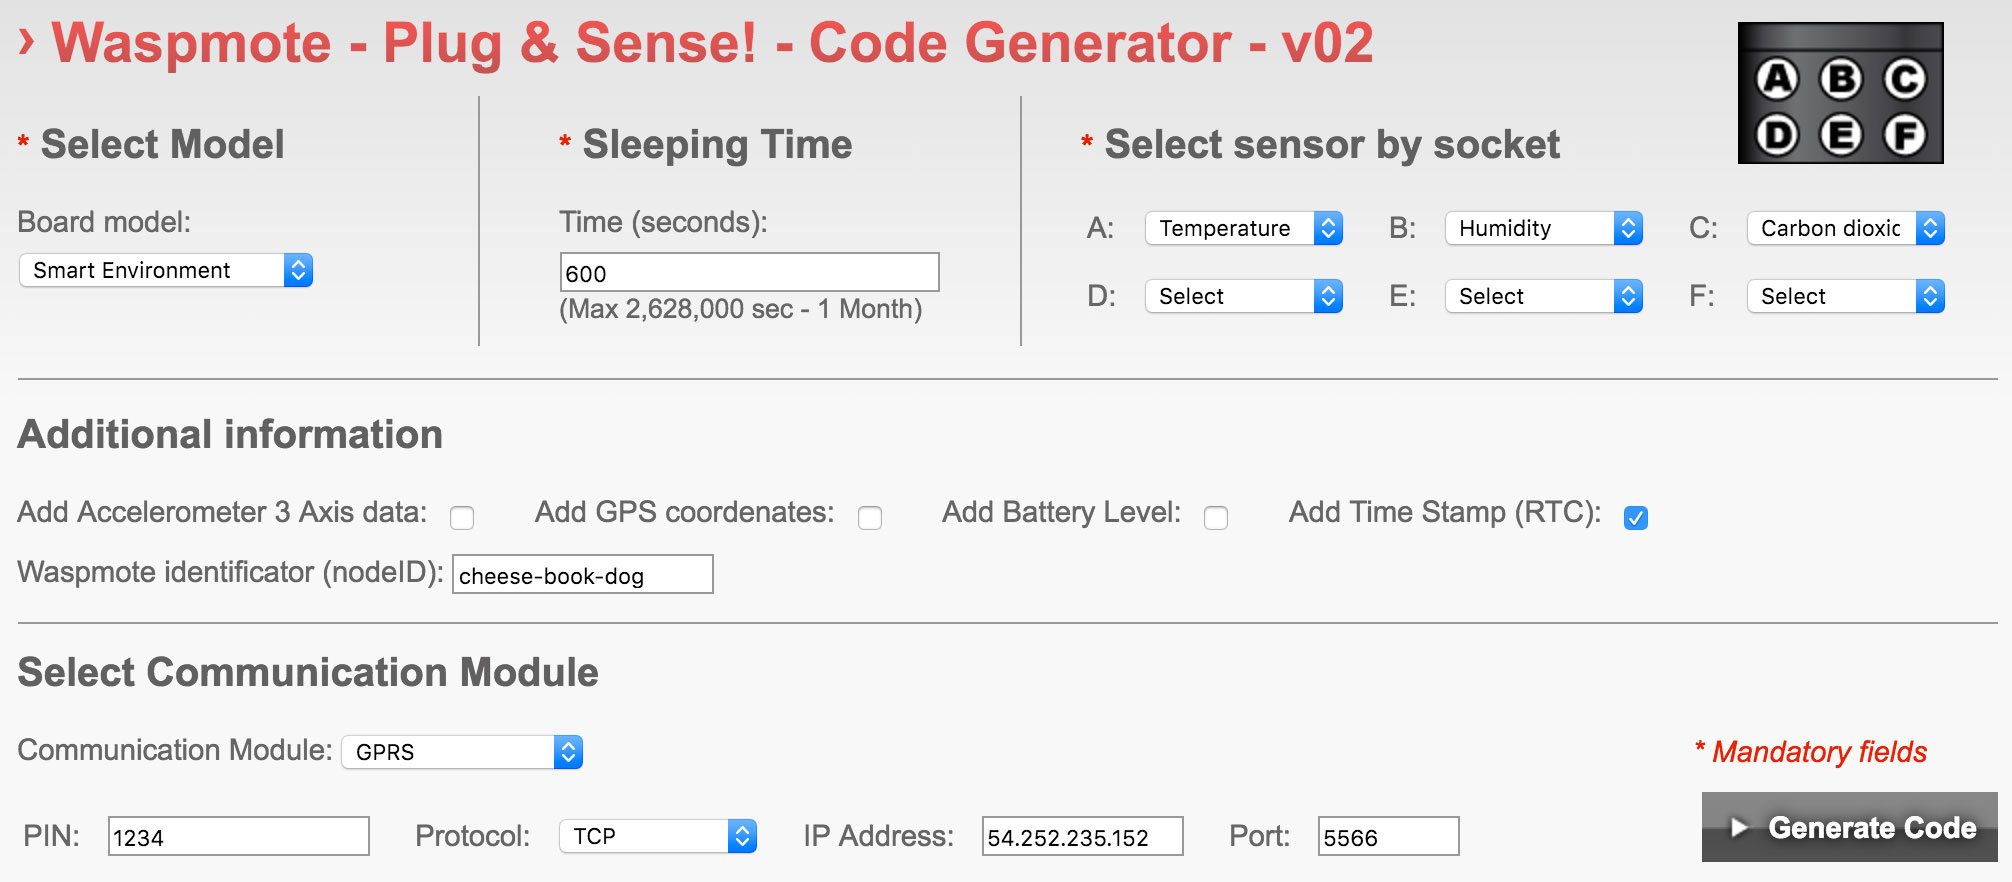
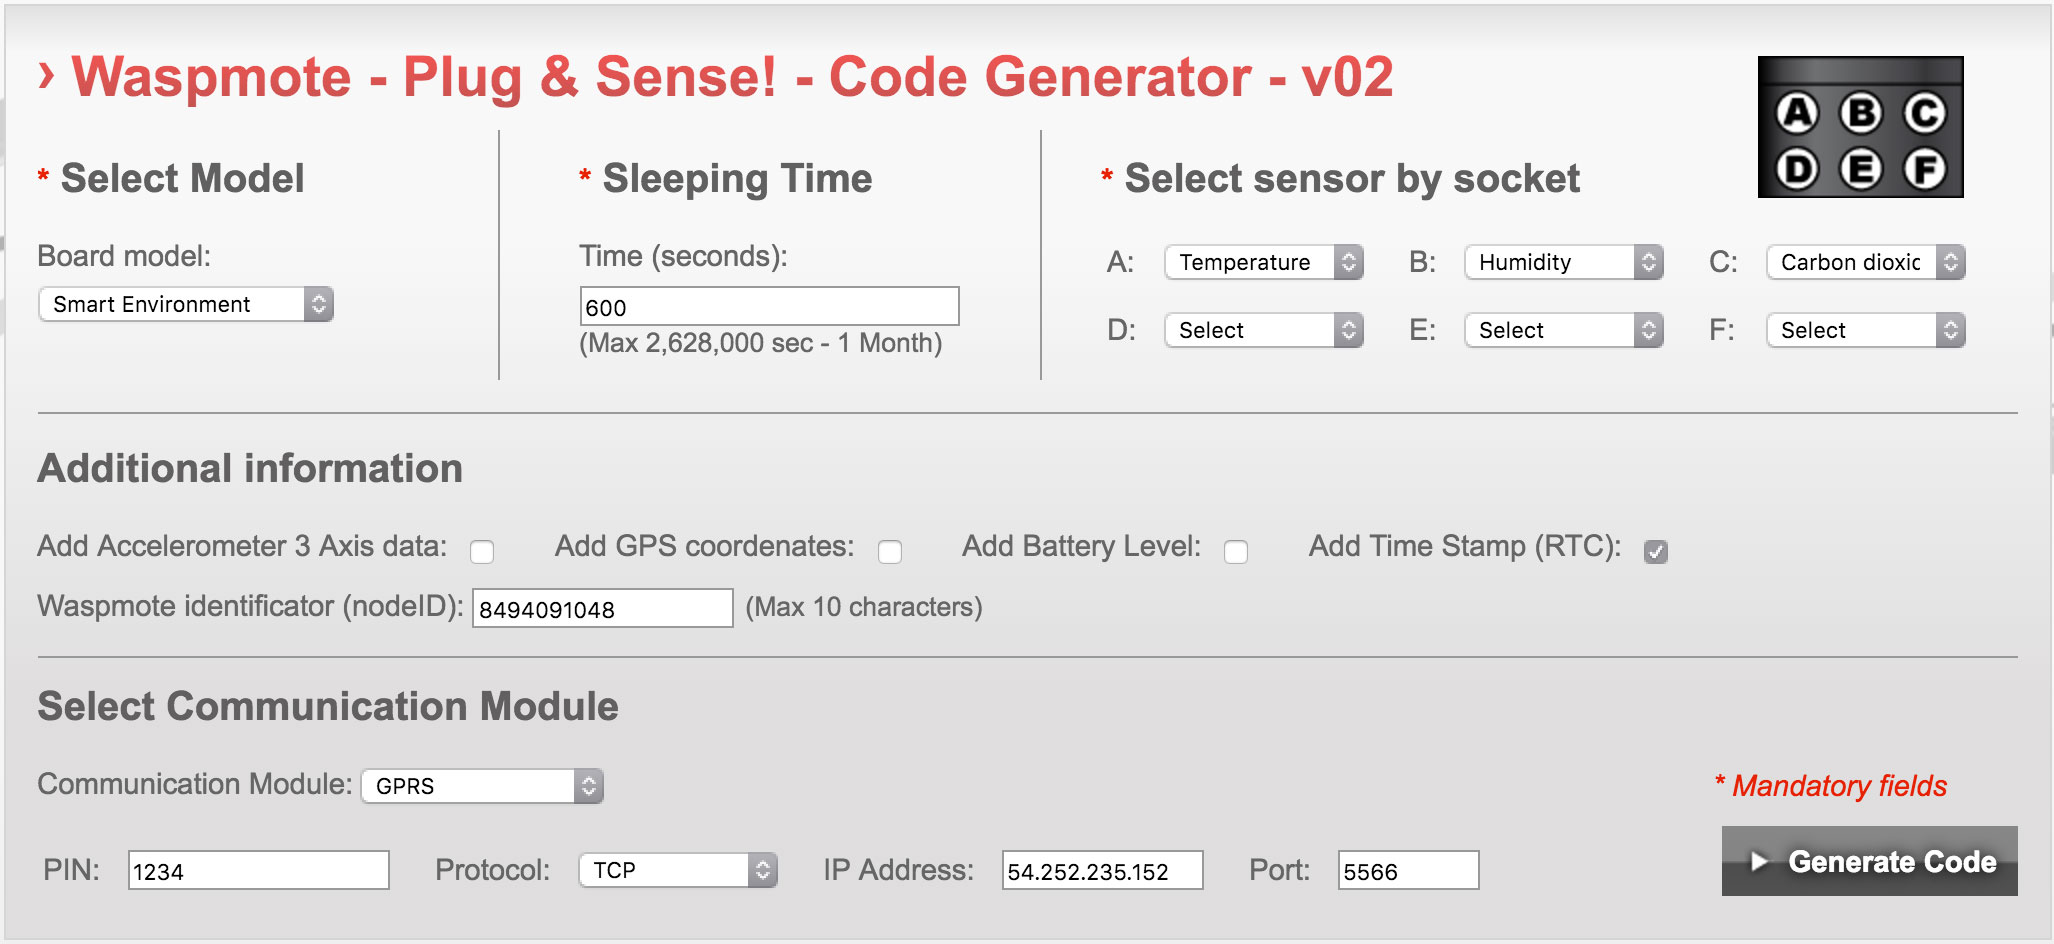
update waspmote screenshots and connection info

diff --git a/source/topics/device_configuration/libelium_waspmote/index.rst b/source/topics/device_configuration/libelium_waspmote/index.rst
@@ -133,10 +133,16 @@ Use the online `Libelium code generator <http://www.libelium.com/development/was
 Apply the following settings for direct connection to eagle.io:
 
 Wapmote identificator
-    Use the unique *Waspmote Id* code generated during Data Source creation.
+    Use the unique *Waspmote Id* generated during Data Source creation.
+
+Add Time Stamp (RTC)
+    Enabled
+
+Communication Module
+    GPRS
 
 PIN
-    Enter the PIN number for the SIM card
+    Enter the PIN number for the SIM card (required)
 
 Protocol
     TCP
